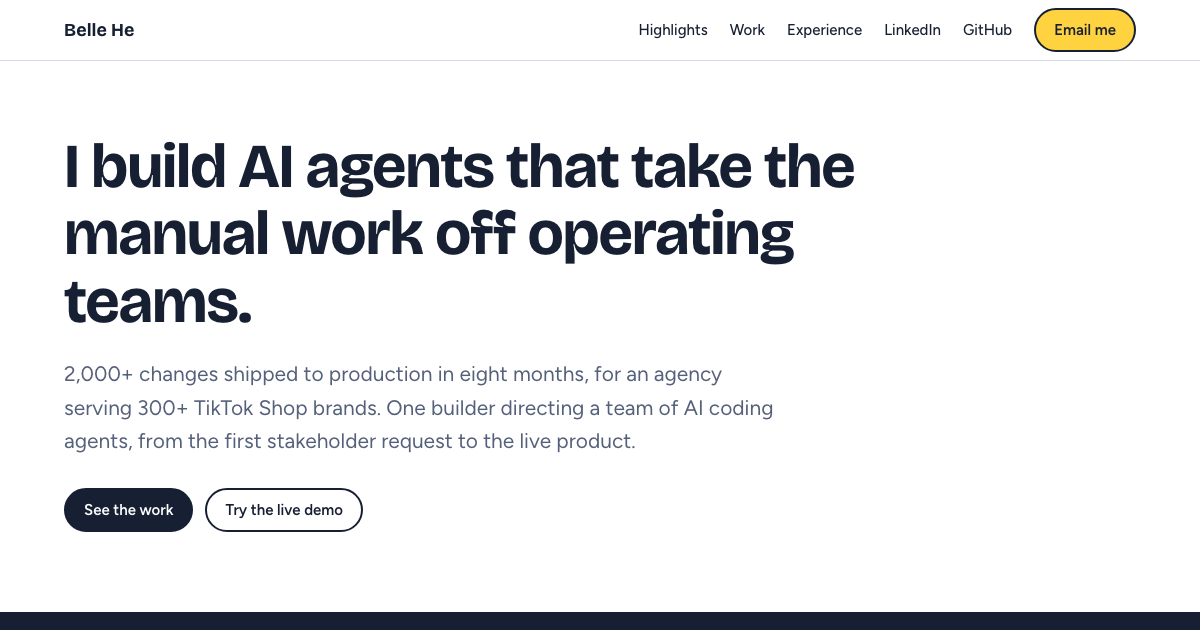
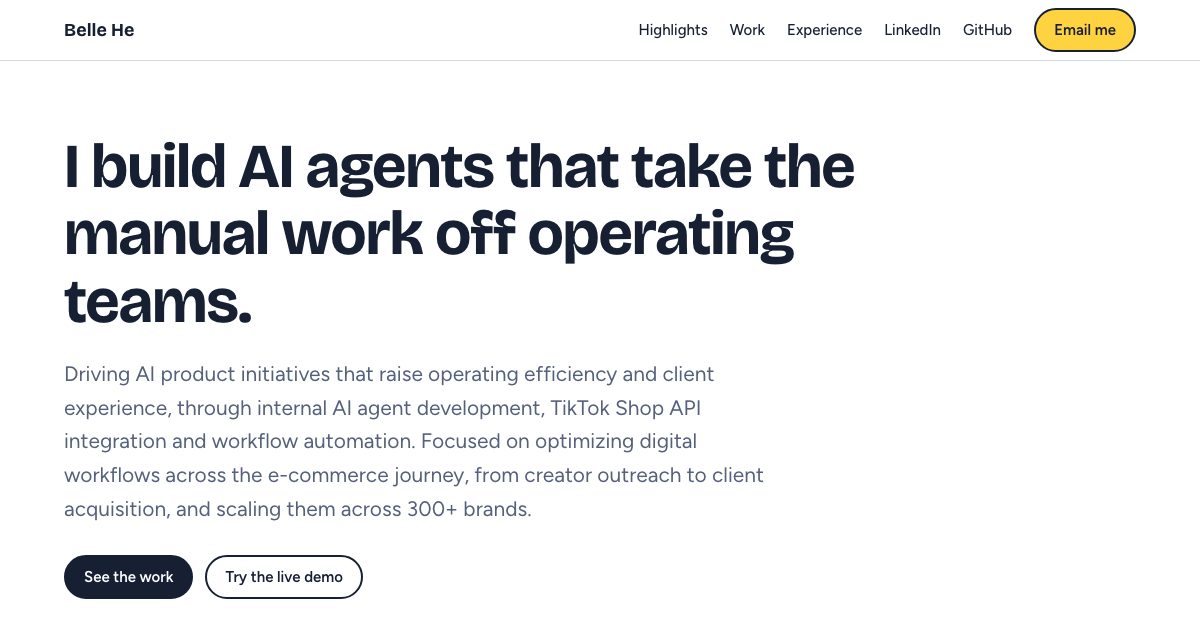
Home page: new description

diff --git a/index.html b/index.html
@@ -34,7 +34,7 @@
     <div class="wrap">
       <div>
         <h1>I build AI agents that take the manual work off operating teams.</h1>
-        <p class="lede">2,000+ changes shipped to production in eight months, for an agency serving 300+ TikTok Shop brands. One builder directing a team of AI coding agents, from the first stakeholder request to the live product.</p>
+        <p class="lede">Driving AI product initiatives that raise operating efficiency and client experience, through internal AI agent development, TikTok Shop API integration and workflow automation. Focused on optimizing digital workflows across the e-commerce journey, from creator outreach to client acquisition, and scaling them across 300+ brands.</p>
         <div class="actions">
           <a class="btn" href="#work">See the work</a>
           <a class="btn plain" href="shop-audit/">Try the live demo</a>
